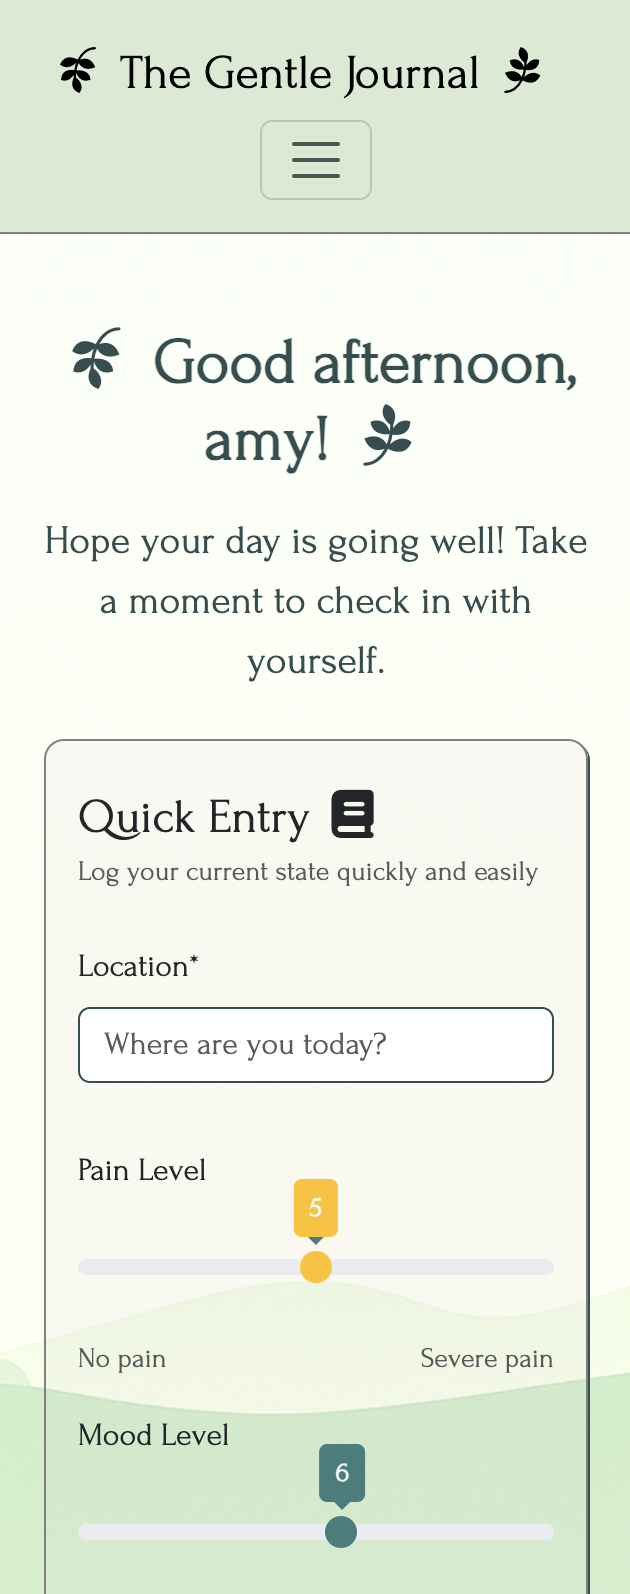
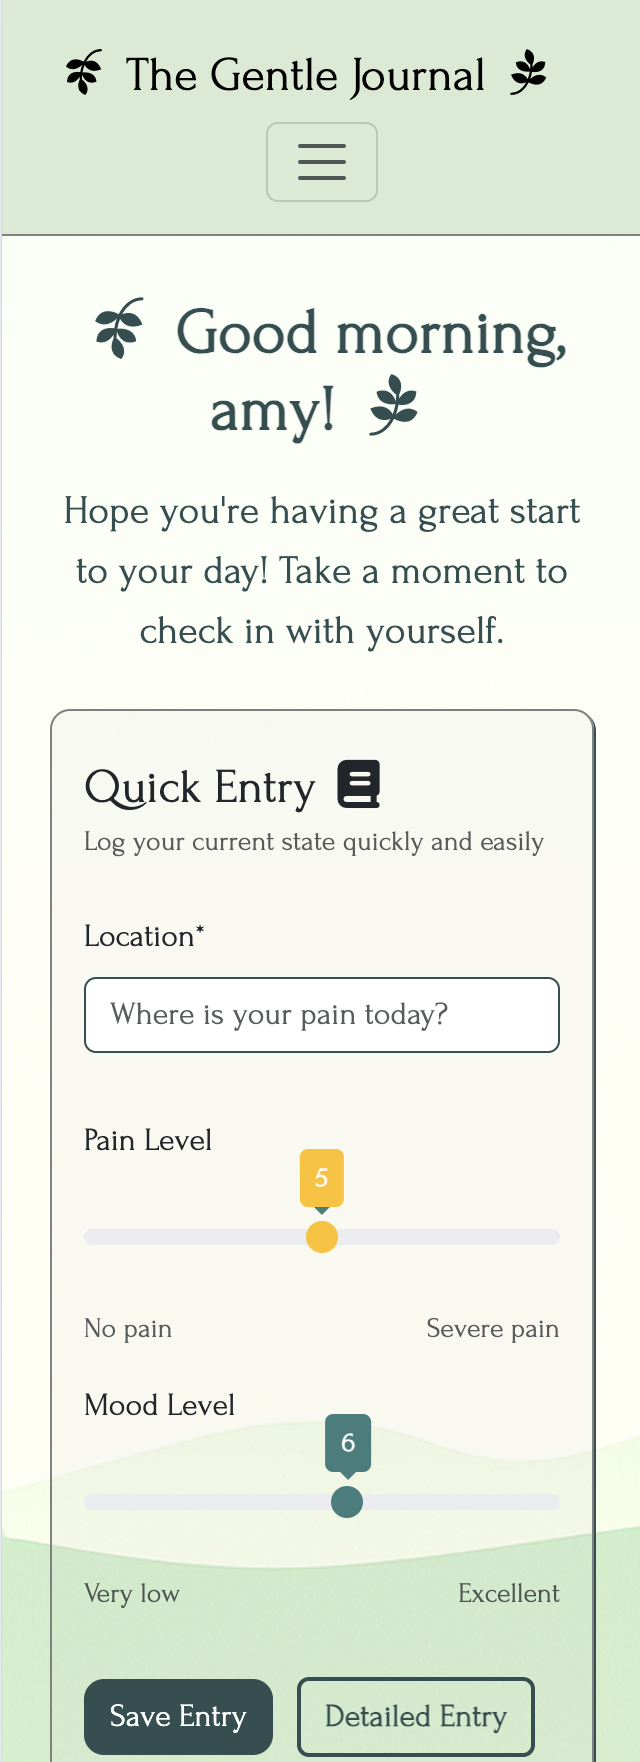
Update README.md and images for improved documentation and clarity; refine form instructions

diff --git a/README.md b/README.md
@@ -222,7 +222,7 @@ Django==4.2.26 dj-database-url==2.1.0 gunicorn==22.0.0 whitenoise==6.7.0 django-
 - Navigate to Dashboard - you'll see a personalized greeting
 - Use Quick Entry for rapid logging or click "Detailed Entry" for comprehensive tracking
 - Fill in the form:
-  - Location (where you are)
+  - Location (where is your pain)
   - Pain Level (0-10 slider)
   - Mood Level (1-10 slider)
   - Sleep Hours
@@ -447,11 +447,11 @@ I used [ValidateJavaScript](https://validatejavascript.com/) to validate both [`
 
 **Script.js**
 
-- **Missing Radix Parameter**: ESLint flagged multiple instances of `parseInt()` calls without specifying the radix parameter (e.g., `parseInt(slider.value)` instead of `parseInt(slider.value, 10)`). This occurred because JavaScript's `parseInt()` function attempts to guess the number base without an explicit radix, which can lead to unexpected behavior with certain input values. Resolved by adding the decimal radix parameter to all `parseInt()` calls.
+- **Missing Radix Parameter**: Flagged multiple instances of `parseInt()` calls without specifying the radix parameter (e.g., `parseInt(slider.value)` instead of `parseInt(slider.value, 10)`). This occurred because JavaScript's `parseInt()` function attempts to guess the number base without an explicit radix, which can lead to unexpected behavior with certain input values. Resolved by adding the decimal radix parameter to all `parseInt()` calls.
 
 - **Function Used Before Declaration**: Initial code structure had function calls in `DOMContentLoaded` before the functions were declared, violating JavaScript hoisting best practices. This was resolved by reorganizing the code with a clear hierarchy: utility functions first, class definitions second, global variables third, composite functions fourth, and main initialization last.
 
-- **Inner Function Declarations**: ESLint detected function declarations nested inside other functions (e.g., `updateSlider()` inside `initializeSlider()`), which is discouraged for scope clarity. Fixed by converting nested function declarations to arrow function expressions (e.g., `const updateSlider = () => { ... }`).
+- **Inner Function Declarations**: Detected function declarations nested inside other functions (e.g., `updateSlider()` inside `initializeSlider()`), which is discouraged for scope clarity. Fixed by converting nested function declarations to arrow function expressions (e.g., `const updateSlider = () => { ... }`).
 
 - **Undefined Global Variables**: The linter flagged `'document' is not defined` and `'bootstrap' is not defined` errors because it didn't recognize the browser environment context. Resolved by adding environment directives at the top of the file: `/* eslint-env browser */` and `/* global bootstrap */`.
 
@@ -502,7 +502,7 @@ I used [Code Institutes Python Linter](https://pep8ci.herokuapp.com/) to validat
   - Continue scrolling down to 'Manual deploy'
   - 'Choose a branch to deploy' set to 'main'
   - Click 'Deploy Branch'
-8. Wait for the build to complete then click 'Open App' at the top right of the Deploy page
+8. Wait for the build to complete then click 'View' at the bottom or 'Open App' at the top right of the Deploy page
 
 ### Environment Variables
 #### Required for production:
@@ -523,7 +523,7 @@ GitHub Copilot was utilized throughout the development of The Gentle Journal to 
 - **JavaScript Implementation**: Generating complex Chart.js configurations for the analytics dashboard, including dual y-axis setups, responsive chart options, and interactive data toggle functionality
 - **Django Views and Models**: Suggesting efficient query patterns, form validation logic, and view structure for CRUD operations while ensuring proper user authentication and data isolation
 - **CSS Styling**: Providing responsive design solutions, particularly for the interactive slider components with color-coded pain level indicators and modal layouts across different screen sizes
-- **Testing Framework**: Generating comprehensive Django TestCase methods for form validation, view functionality, and security testing, significantly improving test coverage
+- **Testing Framework**: Generating additional comprehensive Django TestCase methods for form validation, view functionality, and security testing, significantly improving test coverage
 - **Documentation**: Assisting with docstring creation, code comments, and README structure to maintain clear, professional documentation standards
 
 Copilot's suggestions were carefully reviewed and adapted to fit the specific healthcare context and user experience requirements of the application, ensuring that all generated code aligned with accessibility standards and Django best practices.
